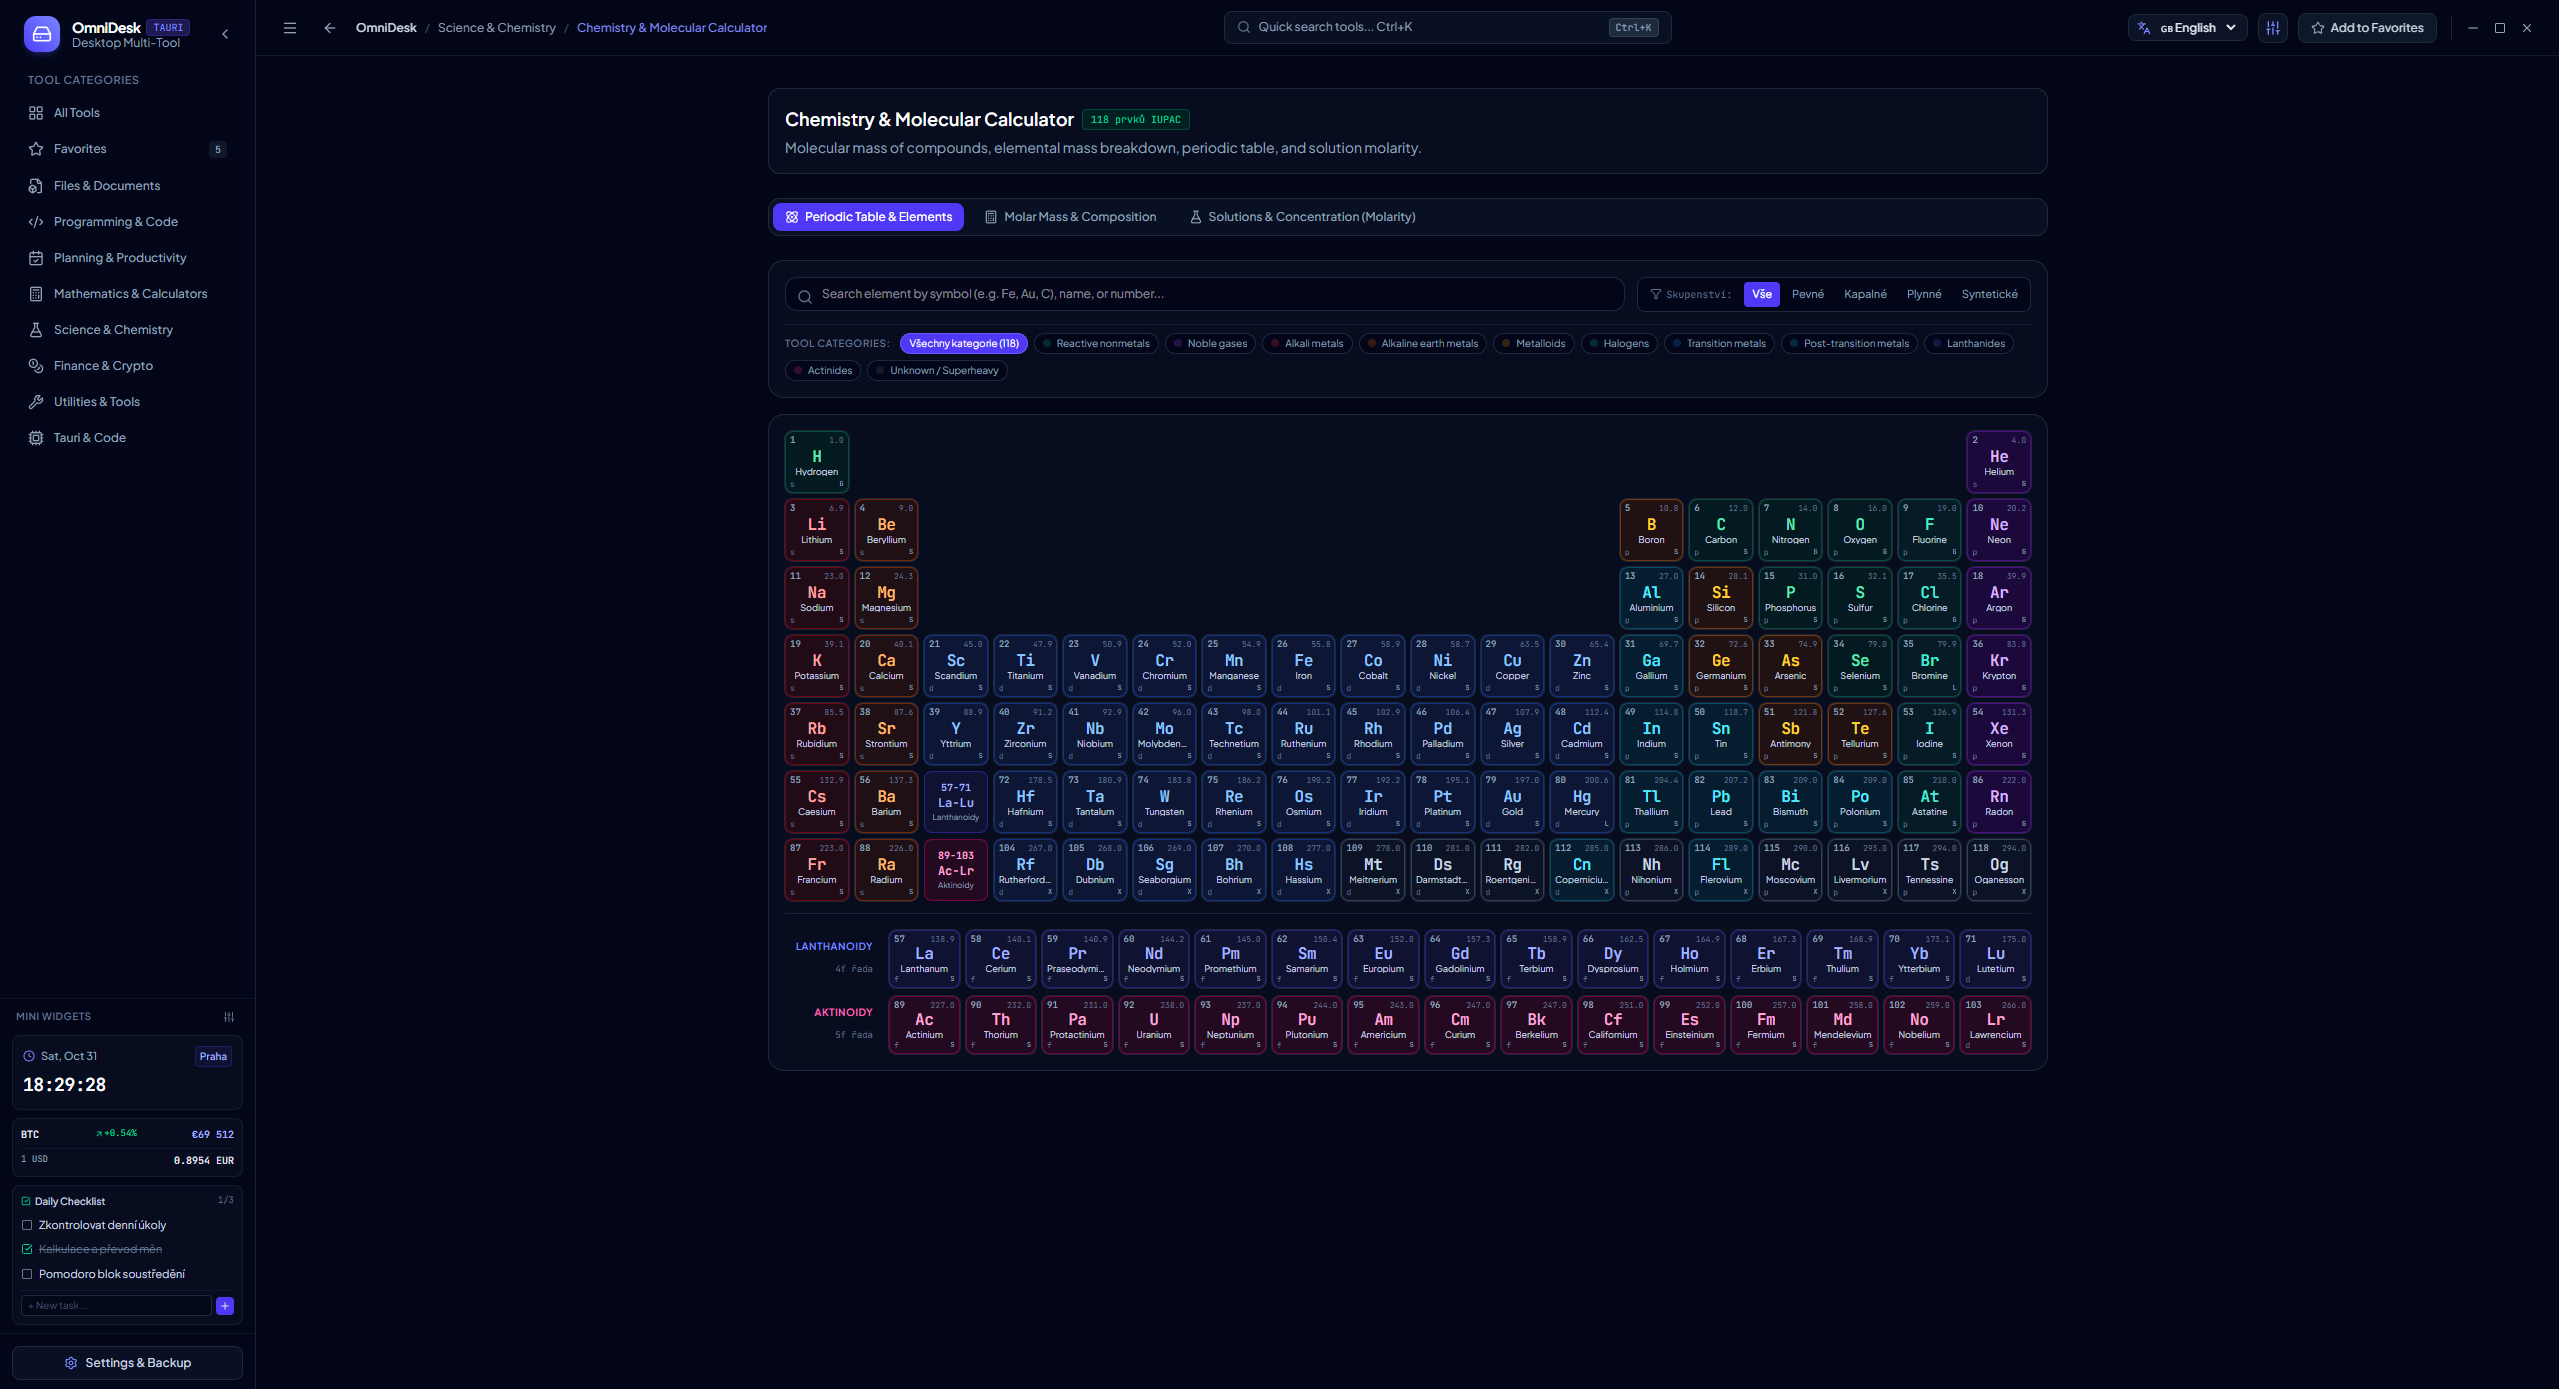
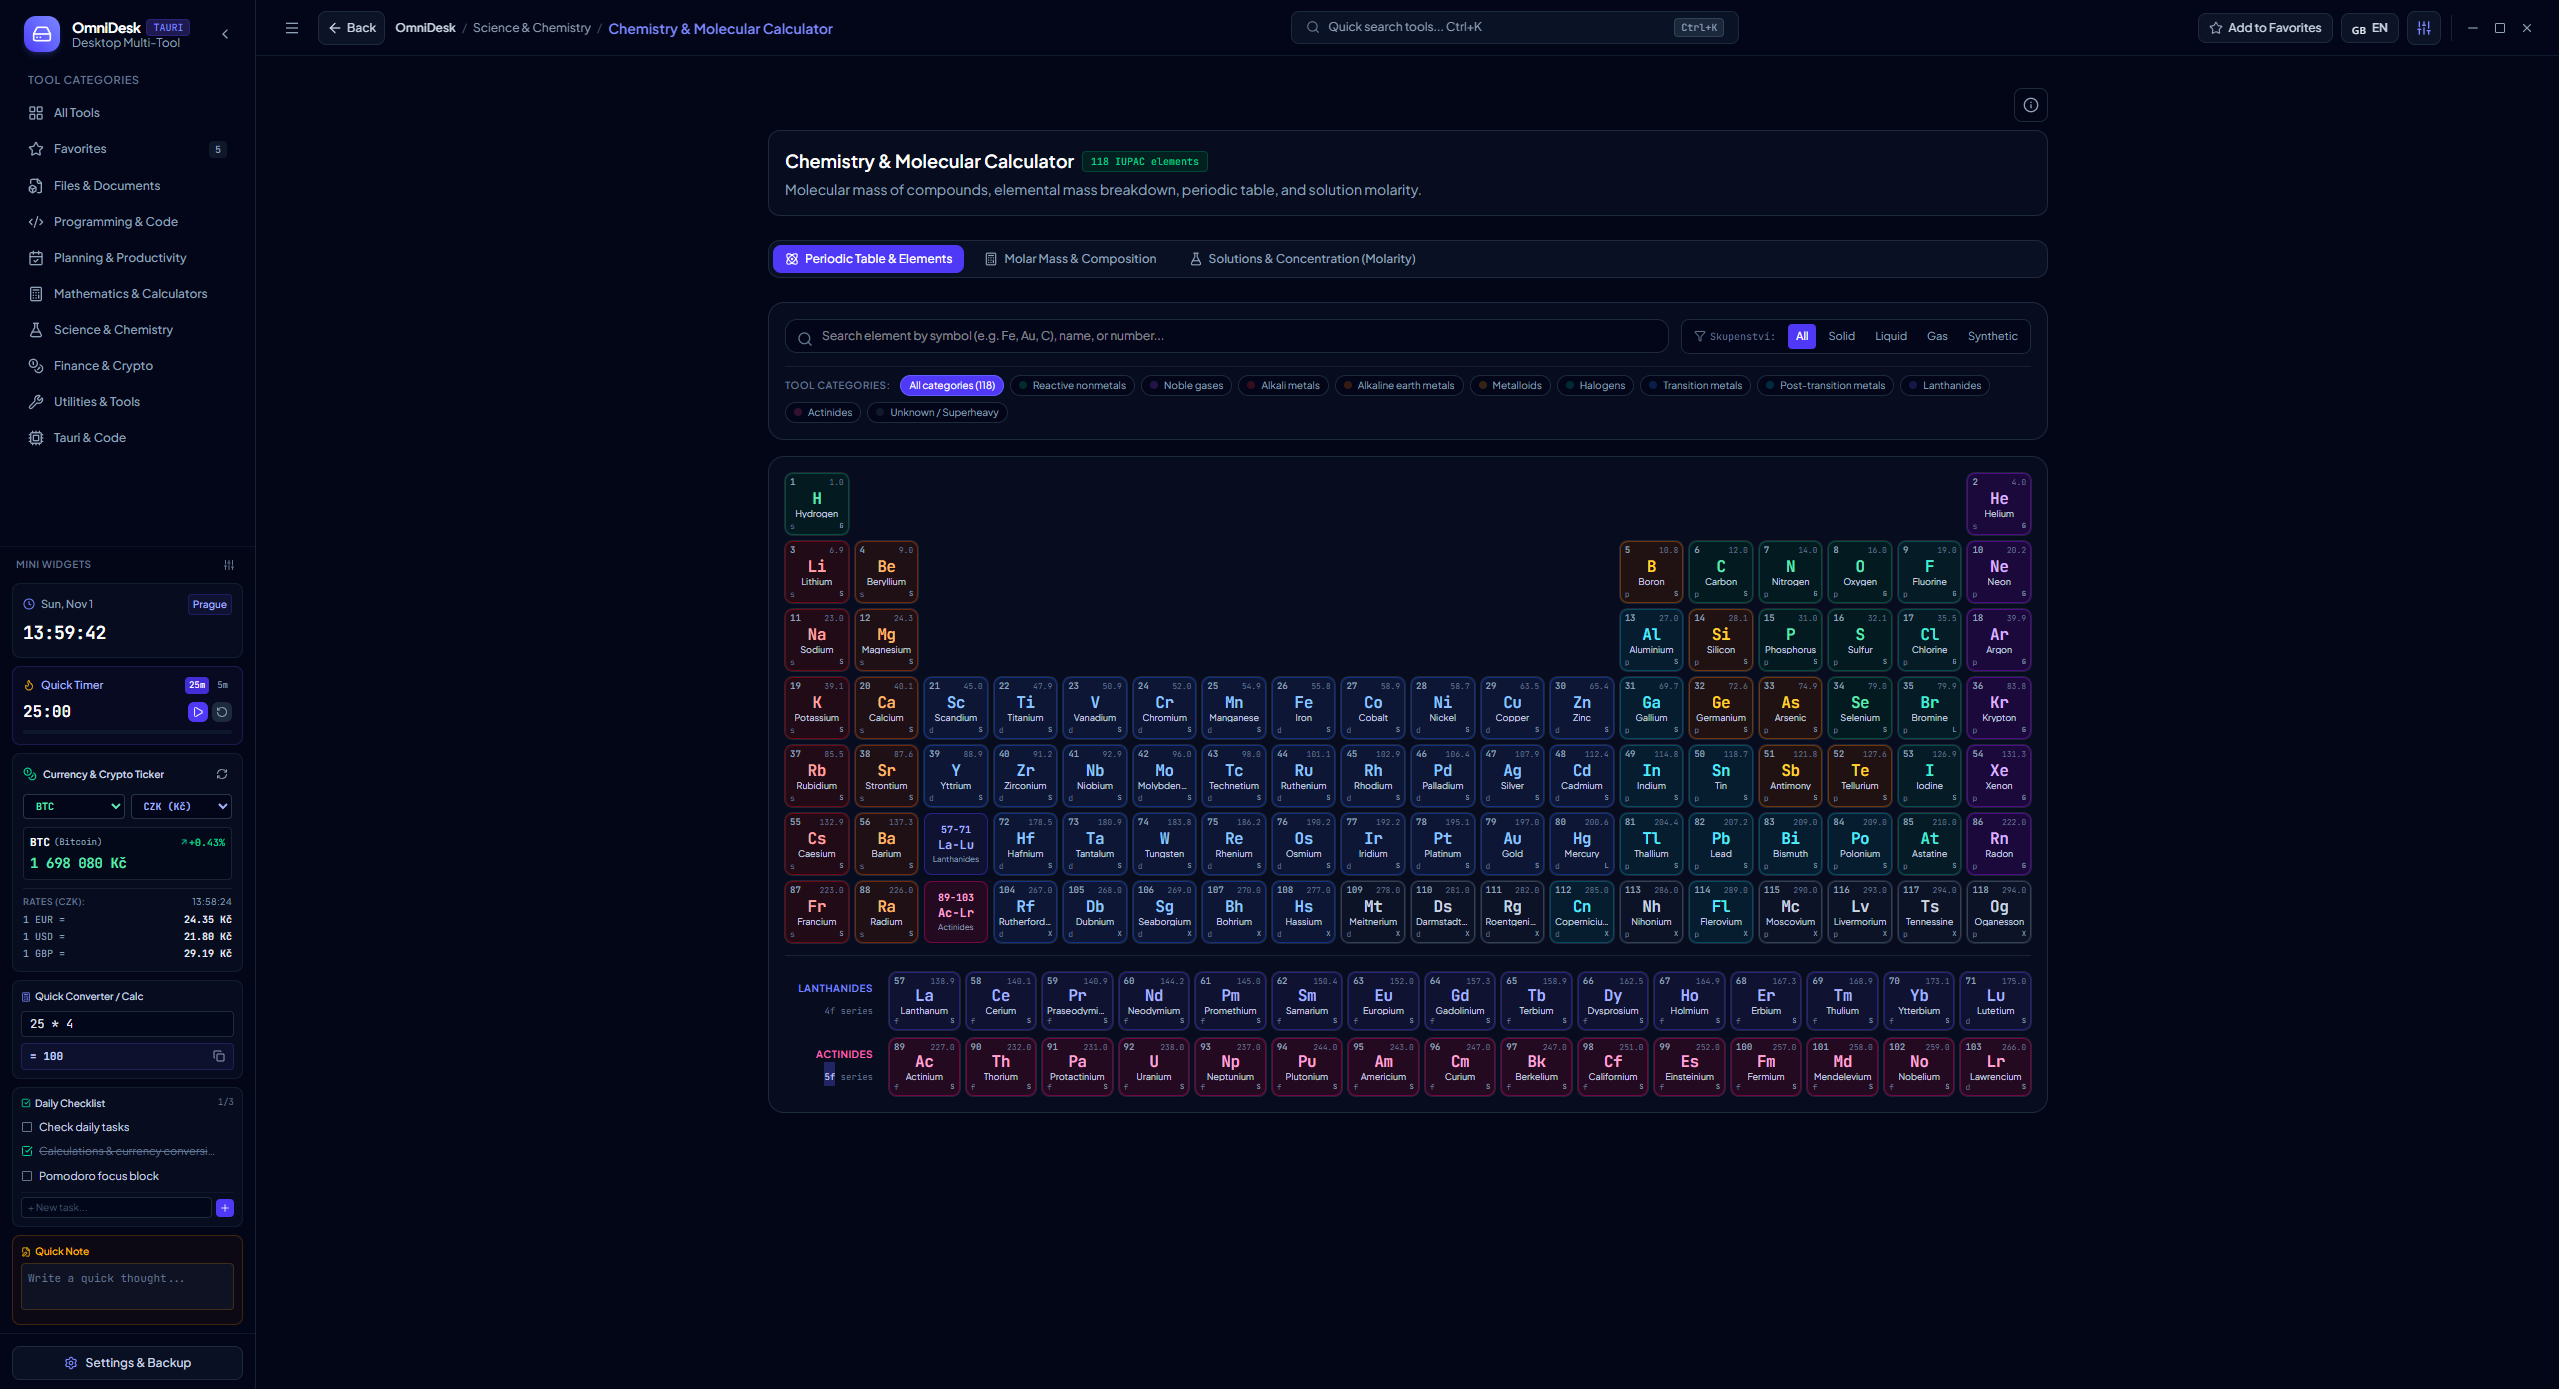
docs: update README and remove unused dependency
- Update README to reflect new dashboard layout and currency engine
- Remove unused tesseract.js dependency from package.json

diff --git a/README.md b/README.md
@@ -23,12 +23,17 @@ The application defaults to **English** out-of-the-box, with dynamic, first-clas
 | 🧪 Chemistry & Molecular Calculator | 📈 2D Function Grapher & Plotter |
 | :---: | :---: |
 | [![Chemistry table](docs/screenshots/function-chemistry.png)](docs/screenshots/function-chemistry.png) | [![2D Function Grapher](docs/screenshots/function-grapher.png)](docs/screenshots/function-grapher.png) |
-| *Categorized workstation with mini-widgets & search* | *Interactive curves, tangent slopes & math formulas* |
+| *118 IUPAC elements, orbital blocks & solution molarity* | *Interactive curves, tangent slopes & math formulas* |
 
-| 💱 Live Crypto & Currency Rates | ⚙ Application Settings & Configurator |
+| 📅 Interactive Calendar & Planner | 💱 Live Crypto & Currency Rates |
 | :---: | :---: |
-| [![Crypto & Currency Tracker](docs/screenshots/crypto-rates.png)](docs/screenshots/crypto-rates.png) | [![Settings & Configurator](docs/screenshots/config.png)](docs/screenshots/config.png) |
-| *Real-time cryptocurrency ticker & value calculator* | *Themes, currency preferences, widgets & JSON backup * |
+| [![Calendar & Planner](docs/screenshots/calendar.png)](docs/screenshots/calendar.png) | [![Crypto & Currency Tracker](docs/screenshots/crypto-rates.png)](docs/screenshots/crypto-rates.png) |
+| *Hourly schedule, vacation planning & .ICS export* | *Real-time cryptocurrency ticker & value calculator* |
+
+| ⚙ Application Settings & Configurator |
+| :---: |
+| [![Settings & Configurator](docs/screenshots/config.png)](docs/screenshots/config.png) |
+| *Themes, default currency selection, sidebar widgets & JSON profile backup* |
 
 ---
 
@@ -90,19 +95,27 @@ Open [http://localhost:3000](http://localhost:3000) in your web browser. From th
 
 ## 🌟 Architectural Highlights & Recent Updates
 
+- 💱 **Universal Dynamic Multi-Currency Engine**:
+  - Global user-configurable default currency (**CZK, EUR, USD, GBP, CHF, PLN, JPY, RUB, CAD, AUD, HUF, UAH, TRY**) automatically propagated across all tools.
+  - Zero hardcoded static currencies: Investment Calculator, Periodic Finance Calculator, Loan & Mortgage Calculator, Expense Tracker, Discount & VAT Calculator, and Smart Shopping List automatically format numbers and labels using the active currency.
+  - Instant in-tool currency switcher in each financial workstation for on-the-fly currency switching without having to open global settings.
+- 🪙 **Interactive Sidebar Crypto & Forex Widget**:
+  - Direct selection of any cryptocurrency (BTC, ETH, SOL, TON, BNB, XRP, DOGE, AVAX, ADA, LINK, DOT, NEAR, SUI, SHIB) and fiat currency directly within the sidebar widget.
+  - Dual-row responsive controls ensuring zero overflow or text clipping across all 5 languages (English, Czech, German, Spanish, Russian).
+  - Dynamic Forex exchange cross-rates computed relative to the chosen fiat currency, plus 1-click manual rate refresh.
+- 📅 **Interactive Calendar & Event Planner**:
+  - Hourly calendar schedules with Day, Week, and Month views, event searching, and .ICS file export.
+  - Built-in work days & vacation planner to calculate return dates and holiday periods.
 - 🧪 **Complete 118-Element IUPAC Periodic Table**:
   - Full authentic periodic table adhering to official IUPAC standards (periods 1–7, groups 1–18, separated lanthanide and actinide series).
   - Color-coded orbital blocks (*s, p, d, f*) and element categories (alkali metals, halogens, noble gases, etc.).
   - Interactive element modal: atomic number, relative molar mass, electronegativity, electron configurations, phase, and density.
-- 💱 **Live Cryptocurrency & Exchange Rates**:
-  - Real-time CoinGecko API integration for major cryptocurrencies (BTC, ETH, SOL, TON, BNB, XRP, ADA, DOGE, AVAX, etc.) with manual refresh and cached offline fallback.
-  - User-configurable default fiat currency in Settings (**USD, EUR, CZK, GBP, CHF, PLN, JPY, RUB**) — automatically synced across converters and sidebar widgets.
 - 📝 **Rich Text & Code Editor (.txt / .md)**:
   - Create, open, edit, and download plain text and Markdown files.
-  - **Selective font sizing and case transforms applied exclusively to highlighted text**.
+  - Selective font sizing and case transforms applied exclusively to highlighted text.
   - Headings (H1, H2, H3), alignment (left, center, right), regex search & replace, live word/character counters, reading time estimates, and auto-save.
 - 🗂 **Categorized Home Dashboard**:
-  - All tools organized into clear, labeled categories on the home screen (Files & Documents, Mathematics, Science, Finance, Planning, Utilities).
+  - All tools organized into clear, labeled categories on the home screen (Files & Documents, Programming & Code, Mathematics, Science, Finance, Planning, Utilities).
 - 🪟 **Translucent Themed Header**:
   - The top window control bar matches the active color palette with a modern semi-transparent glass aesthetic.
 - 🌐 **Dynamic Internationalization (English Default)**:
